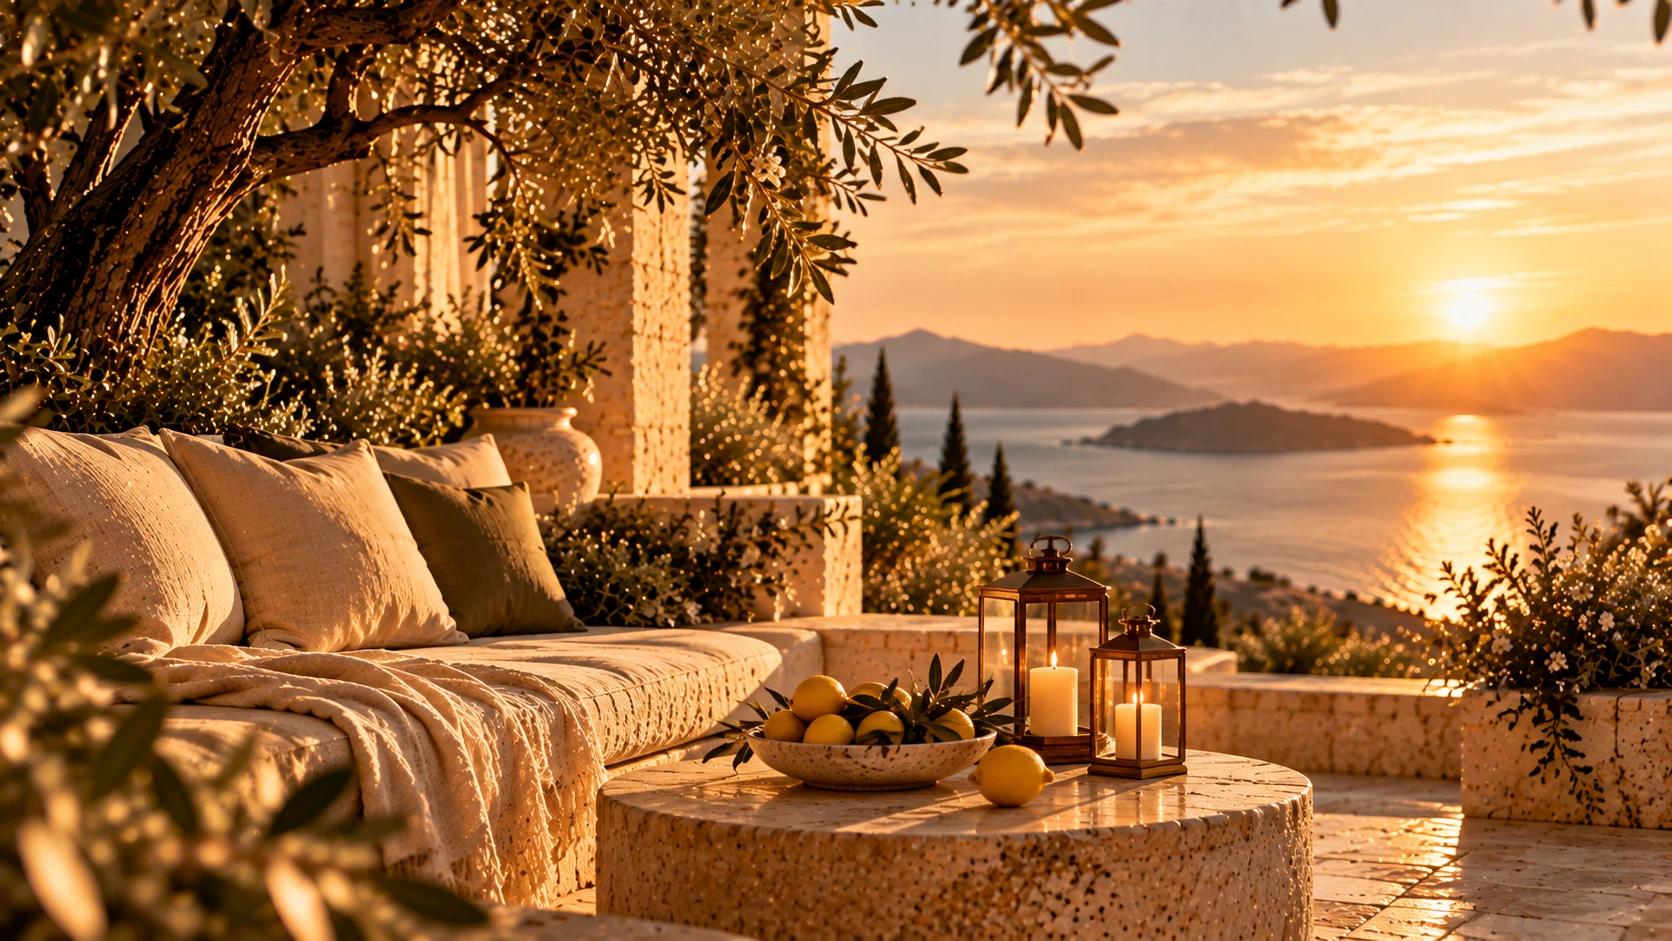
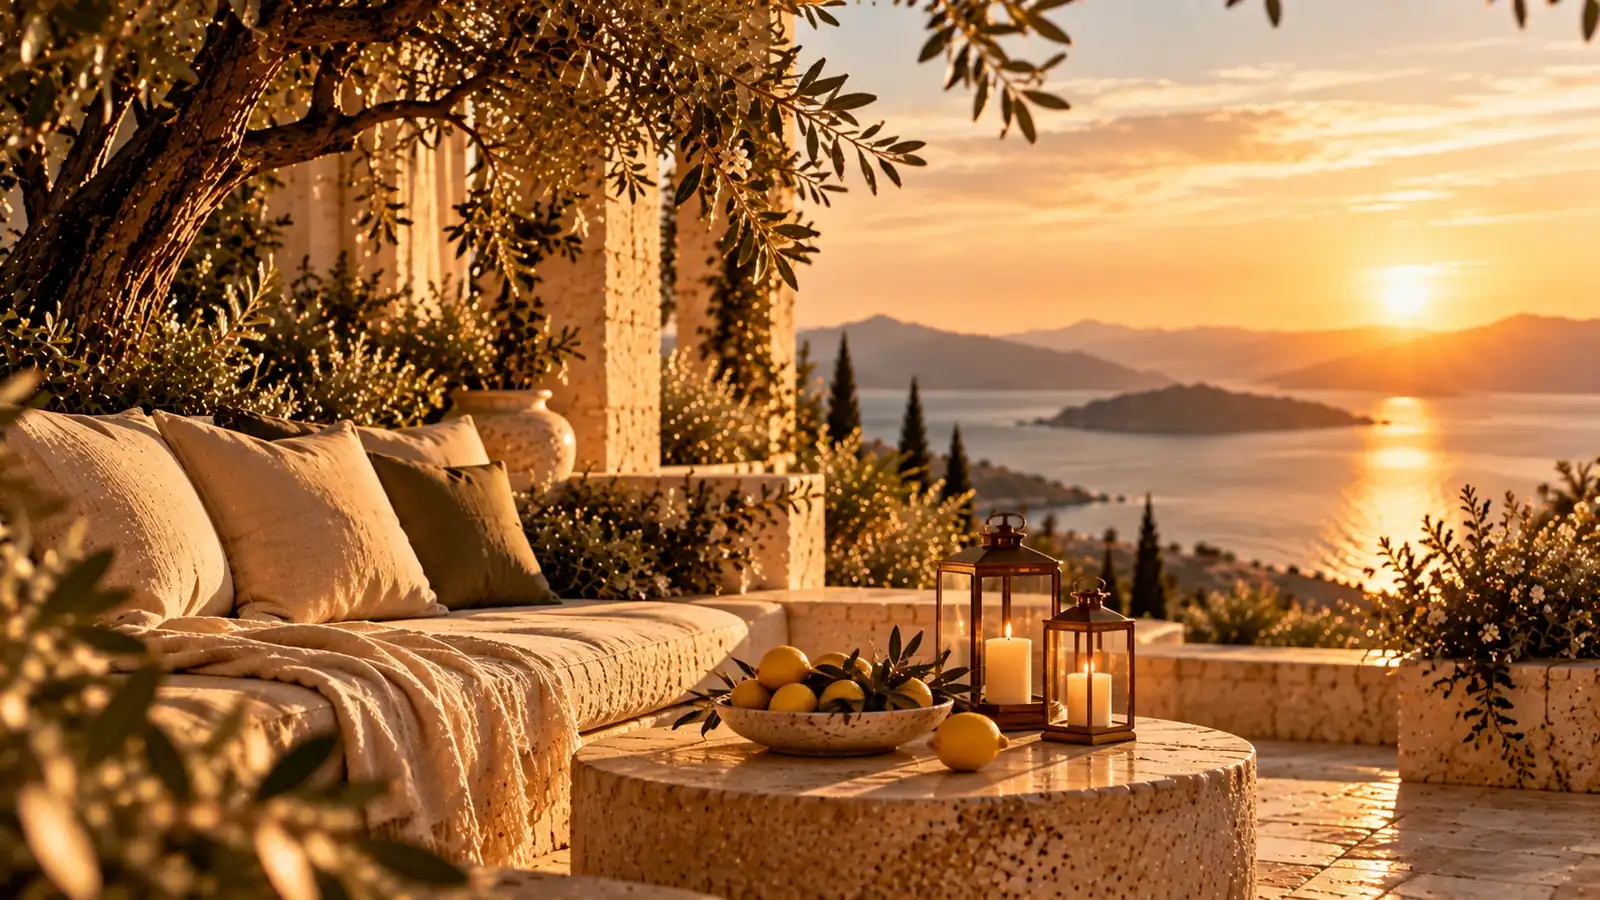
Root to Rise: Bilder komprimiert (Desktop+Mobil), einheitliche Overlays, dunkleres Gold

diff --git a/root-to-rise/index.html b/root-to-rise/index.html
@@ -10,6 +10,8 @@ j=d.createElement(s),dl=l!='dataLayer'?'&l='+l:'';j.async=true;j.src=
 <!-- End Google Tag Manager -->
 <meta charset="utf-8">
 <meta name="viewport" content="width=device-width, initial-scale=1">
+<link rel="preload" as="image" href="hero-bg-m.webp" media="(max-width:800px)" fetchpriority="high">
+<link rel="preload" as="image" href="hero-bg.webp" media="(min-width:801px)" fetchpriority="high">
 <title>ROOT TO RISE · FEMINESS</title>
 <meta name="description" content="ROOT TO RISE – 7 Wochen persönliche Live-Begleitung mit Marina & Vera. Root. Identity. Momentum.">
 <style>
@@ -631,6 +633,40 @@ h1,h2{max-width:1000px}
 footer.site-footer{background:#112E1F;padding:32px 22px;text-align:center;font-size:12px;color:rgba(242,233,218,.6)}
 footer.site-footer img{width:150px;margin:0 auto 14px;display:block}
 footer.site-footer a{color:inherit;margin:0 8px;text-decoration:none}
+</style>
+
+<style id="image-system">
+:root{--ov-light:linear-gradient(180deg,rgba(255,253,248,.76),rgba(255,253,248,.86));--ov-dark:linear-gradient(180deg,rgba(8,26,21,.72),rgba(8,26,21,.84));--gold-dark:#8a6a2c}
+@media(min-width:801px){
+ .hero-top{background-image:var(--ov-dark),url("hero-bg.webp")}
+ .hero-bottom{background-image:var(--ov-dark),url("hero-bg-2.webp")}
+ .desire .narrow.woman::before{background-image:var(--ov-light),url("bg-woman.webp")}
+ .phase.phase-root{background-image:var(--ov-dark),url("bg-root.webp")}
+ .phase.phase-momentum{background-image:var(--ov-dark),url("bg-momentum.webp")}
+ .bring{background-image:var(--ov-light),url("bg-bring.webp")}
+ .moment-bg::before{background-image:var(--ov-light),url("bg-moment.webp")}
+ .forwho{background-image:var(--ov-light),url("bg-compass.webp")}
+ .mv-bg::before{background-image:var(--ov-light),url("bg-arches.webp")}
+ .offer{background-image:var(--ov-light),url("bg-lounge.webp")}
+ .pool-bg::before{background-image:var(--ov-light),url("bg-pool.webp")}
+ .imagine{background-image:var(--ov-light),url("bg-imagine.webp")}
+}
+@media(max-width:800px){
+ .hero-top{background-image:var(--ov-dark),url("hero-bg-m.webp")}
+ .hero-bottom{background-image:var(--ov-dark),url("hero-bg-2-m.webp")}
+ .desire .narrow.woman::before{background-image:var(--ov-light),url("bg-woman-m.webp")}
+ .phase.phase-root{background-image:var(--ov-dark),url("bg-root-m.webp")}
+ .phase.phase-momentum{background-image:var(--ov-dark),url("bg-momentum-m.webp")}
+ .bring{background-image:var(--ov-light),url("bg-bring-m.webp")}
+ .moment-bg::before{background-image:var(--ov-light),url("bg-moment-m.webp")}
+ .forwho{background-image:var(--ov-light),url("bg-compass-m.webp")}
+ .mv-bg::before{background-image:var(--ov-light),url("bg-arches-m.webp")}
+ .offer{background-image:var(--ov-light),url("bg-lounge-m.webp")}
+ .pool-bg::before{background-image:var(--ov-light),url("bg-pool-m.webp")}
+ .imagine::before{background-image:var(--ov-light),url("bg-imagine-m.webp")}
+}
+.imagine .kicker,.desire .narrow.woman .kicker,.moment-bg .kicker,.pool-bg .kicker,.offer-card .kicker,.forwho .kicker,.mv-bg .kicker{color:var(--gold-dark)}
+.offer-card .eyebrow{color:#3a3a3a!important}
 </style>
 
 </head>
